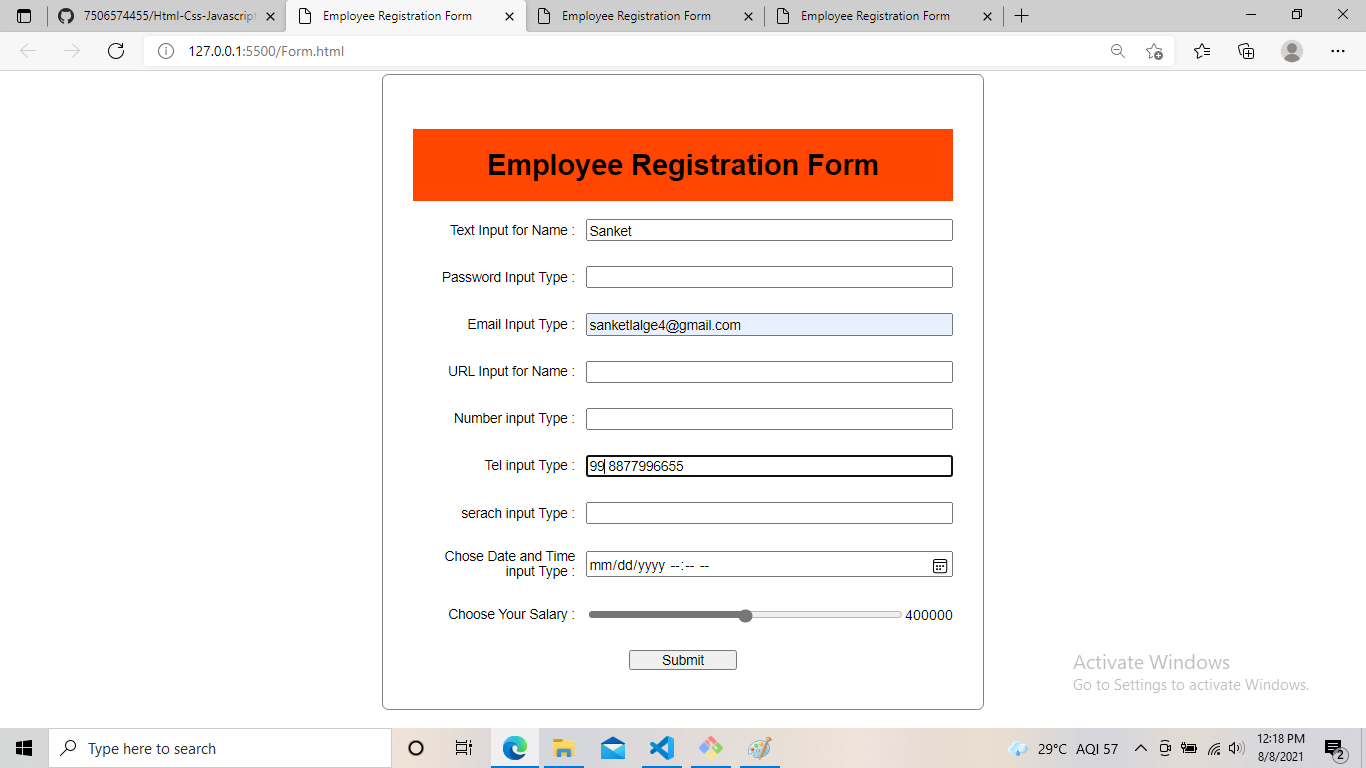
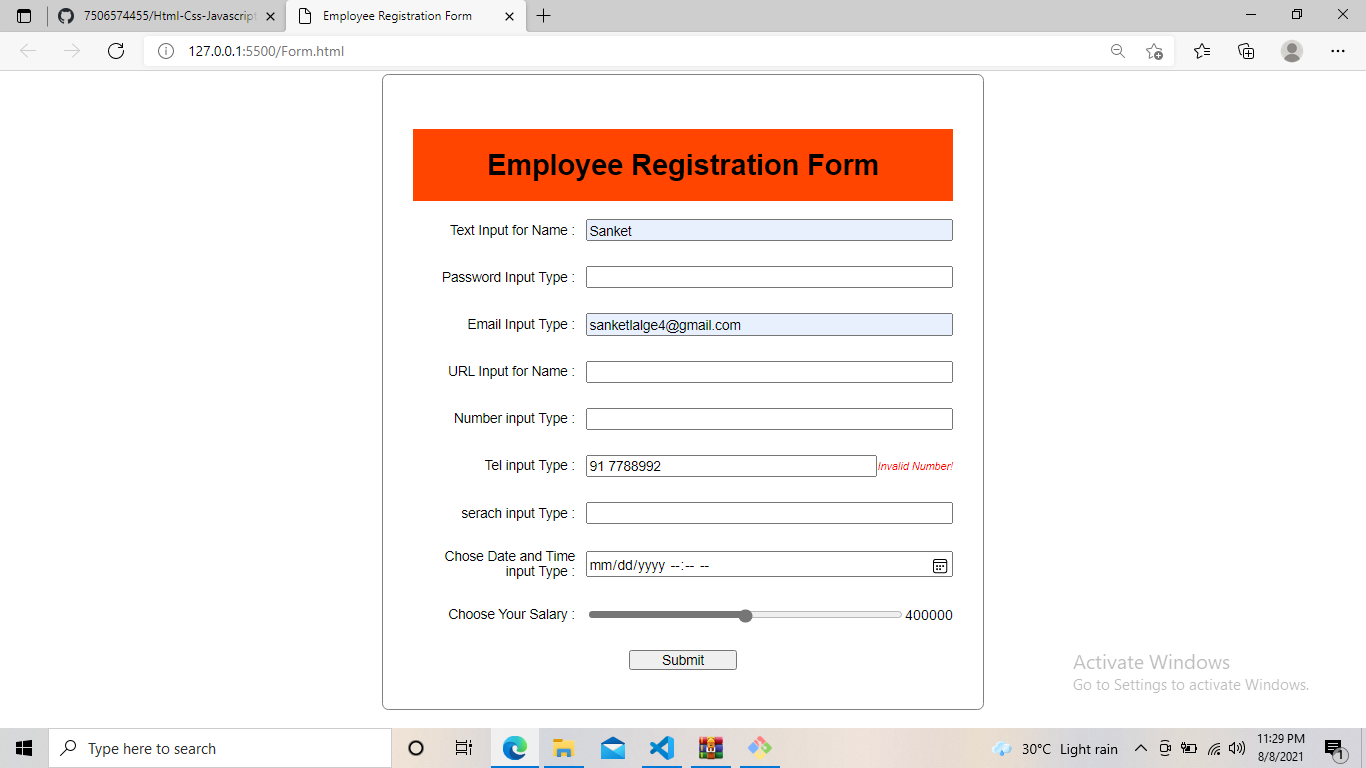
Added: user need to enter mobile number program

diff --git a/Form/Html/Form.html b/Form/Html/Form.html
@@ -83,7 +83,7 @@
         
         const email = document.querySelector('#email');
         const emailError = document.querySelector('.email-error');
-        text.addEventListener('input', function() {
+        email.addEventListener('input', function() {
            let emailRegex = RegExp("^[A-Z a-z]{1,}([+-_.]*)[A-Z a-z 0-9 _+-.]*[@]{1}[A-Z a-z 0-9 +_-]{1,}[.]{1}[a-z]{2,3}([.]{1}[a-z]{2})*$");
            if(emailRegex.test(email.value))
               emailError.emailContent = "";
@@ -99,7 +99,7 @@
                 numberError.textContent = ' ';
             else
                 numberError.textContent = 'Invalid Number!';
-        });  
+        });
         
         
     </script>

diff --git a/Form/js/form.js b/Form/js/form.js
@@ -34,5 +34,6 @@ number.addEventListener('input', function () {
         numberError.textContent = ' ';
     else
         numberError.textContent = 'Invalid Number!';
-});  
+}); 
+
  
